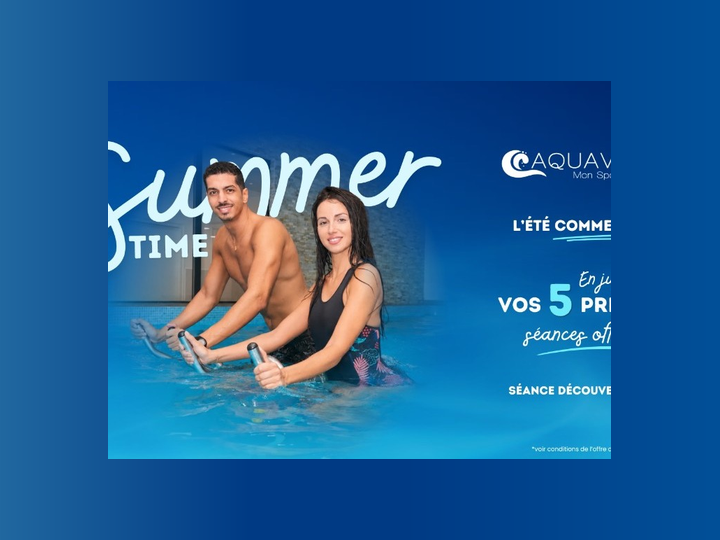
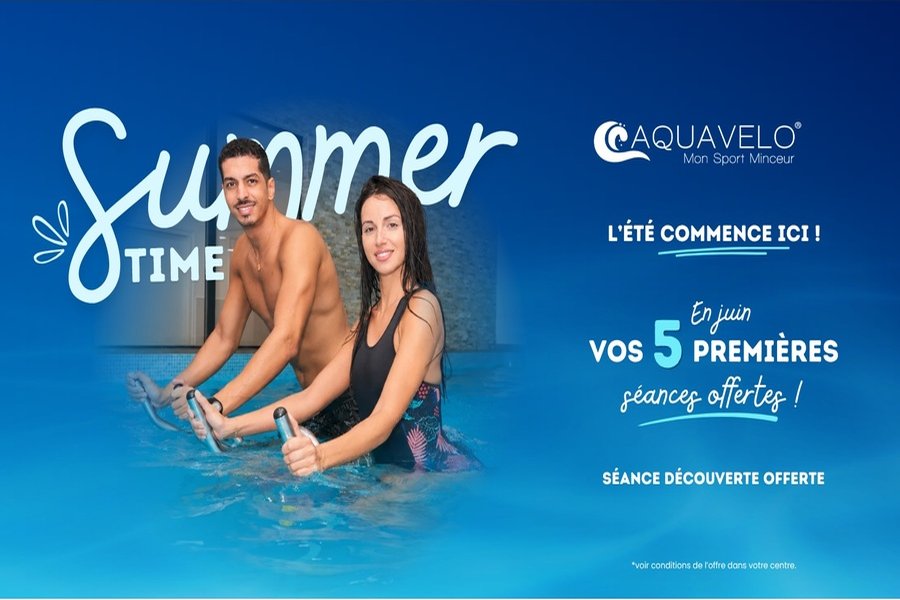
fix(ui): remplacer la bannière promo juin par la visuelle Canva officielle.
Nouvelle image 900x600 (3:2), marges blanches rognées, texte complet visible.

diff --git a/_page.php b/_page.php
@@ -511,7 +511,7 @@
           <a href="https://www.aquavelo.com/seance-decouverte/<?= htmlspecialchars($promotions[$center_id], ENT_QUOTES, 'UTF-8'); ?>" 
              title="Offre séance découverte gratuite Aquavélo <?= htmlspecialchars($promotions[$center_id], ENT_QUOTES, 'UTF-8'); ?>"
              style="display: block; width: 100%;">
-            <img src="<?= BASE_PATH ?>images/offre-av-juin-2026.png?v=3" 
+            <img src="<?= BASE_PATH ?>images/offre-av-juin-2026.png?v=4" 
                  alt="Promotion juin 2026 — 5 premières séances offertes Aquavélo <?= htmlspecialchars($promotions[$center_id], ENT_QUOTES, 'UTF-8'); ?>" 
                  class="img-fluid img-same" 
                  style="border-radius: 10px; box-shadow: 0 5px 15px rgba(0,0,0,0.1);"

diff --git a/articles.php b/articles.php
@@ -92,7 +92,7 @@ fbq('track', 'PageView');
         <div class="col-md-3 col-6 text-center">
           <a href="https://www.aquavelo.com/seance-decouverte/<?= htmlspecialchars($promotions[$row_center['id']], ENT_QUOTES, 'UTF-8'); ?>"
              style="display: block; width: 100%;">
-            <img src="/images/offre-av-juin-2026.png?v=3" 
+            <img src="/images/offre-av-juin-2026.png?v=4" 
                  alt="Promotion juin 2026 — 5 premières séances offertes Aquavélo <?= htmlspecialchars($promotions[$row_center['id']], ENT_QUOTES, 'UTF-8'); ?>" 
                  class="img-fluid img-same"
                  style="border-radius: 10px; box-shadow: 0 5px 15px rgba(0,0,0,0.1);"
